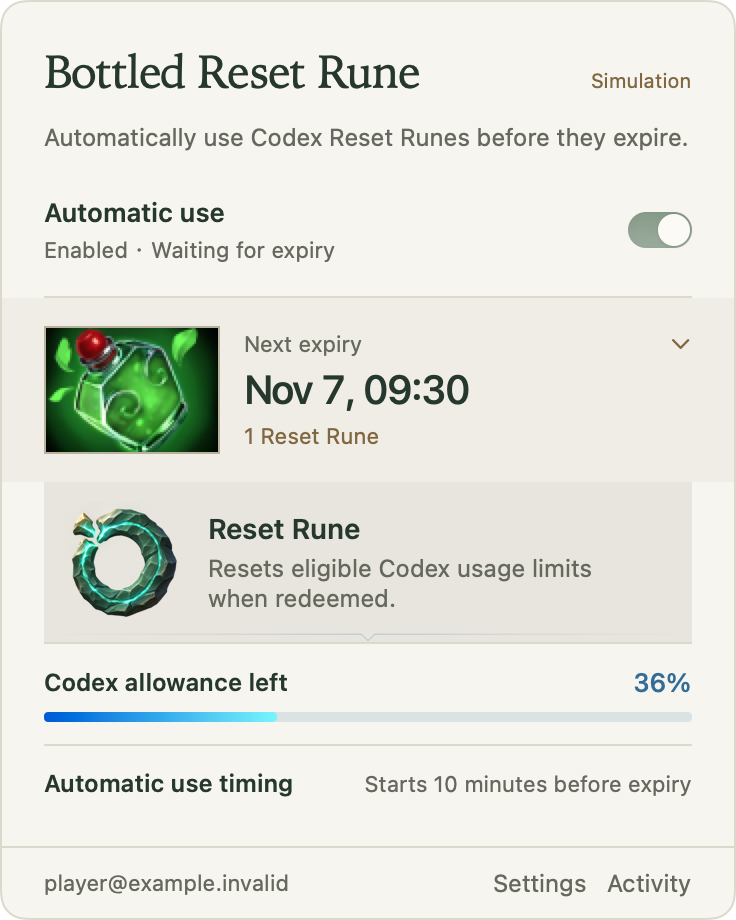
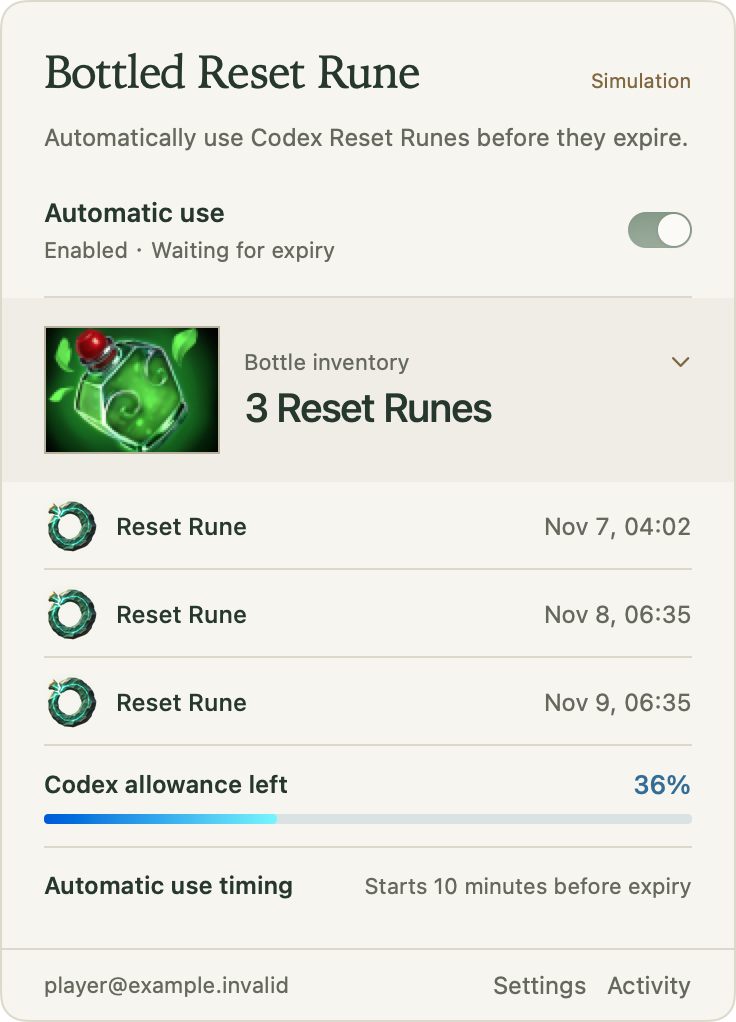
Present Reset Runes in compact inventory rows

diff --git a/native/Sources/RuneMenu/PanelView.swift b/native/Sources/RuneMenu/PanelView.swift
@@ -120,17 +120,18 @@ struct PanelView: View {
     }
 
     private var summary: some View {
-        Button { model.togglePanel("credits") } label: {
+        let showingInventory = model.panel == "credits" && model.bottle == .stored
+        return Button { model.togglePanel("credits") } label: {
             HStack(spacing: 12) {
                 bottleArtwork
                 VStack(alignment: .leading, spacing: 4) {
                     HStack {
-                        Text(model.expiryHeading).font(.system(size: 11)).foregroundStyle(model.isExpiring ? palette.caution : palette.muted)
+                        Text(showingInventory ? model.text("inventory") : model.expiryHeading).font(.system(size: 11)).foregroundStyle(model.isExpiring ? palette.caution : palette.muted)
                         Spacer(minLength: 4)
                         Image(systemName: model.panel == "credits" ? "chevron.down" : "chevron.right").font(.system(size: 10, weight: .medium)).foregroundStyle(palette.brass)
                     }
-                    Text(model.expiryLabel).font(.system(size: 20, weight: .medium)).tracking(-0.4).monospacedDigit().fixedSize(horizontal: false, vertical: true)
-                    if !model.countLabel.isEmpty { Text(model.countLabel).font(.system(size: 11)).foregroundStyle(palette.brass) }
+                    Text(showingInventory ? model.countLabel : model.expiryLabel).font(.system(size: 20, weight: .medium)).tracking(-0.4).monospacedDigit().fixedSize(horizontal: false, vertical: true)
+                    if model.panel != "credits", !model.countLabel.isEmpty { Text(model.countLabel).font(.system(size: 11)).foregroundStyle(palette.brass) }
                 }.frame(maxWidth: .infinity, alignment: .leading)
             }
             .padding(.horizontal, 22).padding(.vertical, 14)
@@ -139,7 +140,7 @@ struct PanelView: View {
         }
         .buttonStyle(.plain)
         .accessibilityLabel(model.text("rune"))
-        .accessibilityValue([model.expiryLabel, model.countLabel].filter { !$0.isEmpty }.joined(separator: ", "))
+        .accessibilityValue(showingInventory ? model.countLabel : [model.expiryLabel, model.countLabel].filter { !$0.isEmpty }.joined(separator: ", "))
         .accessibilityHint(model.text(model.panel == "credits" ? "hideRunes" : "showRunes"))
     }
 
@@ -163,24 +164,17 @@ struct PanelView: View {
 
     private var creditDetails: some View {
         VStack(alignment: .leading, spacing: 0) {
-            runeDescription
-            let others = model.bottle == .stored ? (model.state?.otherExpiryLines(now: model.visibleNow, language: model.language) ?? []) : []
-            if !others.isEmpty {
+            let rows = model.bottle == .stored ? (model.state?.inventoryRows(now: model.now) ?? []) : []
+            if !rows.isEmpty {
                 ScrollView {
                     VStack(spacing: 0) {
-                        ForEach(Array(others.enumerated()), id: \.offset) { index, line in
-                            if index > 0 { separator }
-                            Text(line)
-                                .font(.system(size: 12)).frame(maxWidth: .infinity, alignment: .leading).padding(.vertical, 9)
+                        ForEach(rows) { row in
+                            runeRow(row)
                         }
                     }
-                }.frame(height: min(CGFloat(others.count) * 36, 150))
+                }
+                .frame(height: min(CGFloat(rows.count) * 44, 176))
             }
-            if model.incompleteInventory && model.next != nil {
-                Text(model.text("partial"))
-                    .font(.system(size: 11)).foregroundStyle(palette.muted).padding(.bottom, 9)
-            }
-            separator
             VStack(spacing: 7) {
                 HStack {
                     Text(model.text("allowance")).font(.system(size: 12, weight: .semibold))
@@ -215,33 +209,32 @@ struct PanelView: View {
         }.padding(.horizontal, 22).padding(.bottom, 13)
     }
 
-    private var runeDescription: some View {
-        HStack(spacing: 12) {
-            if let image = MenuArtwork.panel("reset-rune.png") {
-                Image(nsImage: image).resizable().interpolation(.high).scaledToFit()
-                    .frame(width: 60, height: 60).accessibilityHidden(true)
-            }
-            VStack(alignment: .leading, spacing: 4) {
-                Text(model.text("rune")).font(.system(size: 14, weight: .semibold))
-                Text(model.text("runeEffect")).font(.system(size: 12)).foregroundStyle(palette.muted)
-                    .fixedSize(horizontal: false, vertical: true)
-            }
-        }
-        .padding(10)
-        .frame(maxWidth: .infinity, alignment: .leading)
-        .background {
-            palette.well.overlay {
-                if let texture = MenuArtwork.panel("dota-texture.jpg") {
-                    Image(nsImage: texture).resizable().scaledToFill()
-                        .opacity(colorScheme == .dark ? 0.62 : 0.04)
+    private func runeRow(_ row: PanelRuneRow) -> some View {
+        HStack(spacing: 8) {
+            Group {
+                if let image = MenuArtwork.panel("reset-rune.png") {
+                    Image(nsImage: image).resizable().interpolation(.high).scaledToFit()
+                } else {
+                    Image(systemName: "arrow.counterclockwise").foregroundStyle(palette.accent)
                 }
-            }.clipped().accessibilityHidden(true)
-        }
-        .overlay(alignment: .bottom) {
-            if let divider = MenuArtwork.panel("dota-divider.png") {
-                Image(nsImage: divider).resizable().scaledToFit().accessibilityHidden(true)
             }
+            .frame(width: 28, height: 28)
+            .accessibilityHidden(true)
+            Text(row.count > 1 ? "\(model.text("rune")) ×\(row.count)" : model.text("rune"))
+                .font(.system(size: 12, weight: .medium))
+                .lineLimit(1)
+            Spacer(minLength: 6)
+            Text(row.expiresAt.map { PanelCopy.date($0, language: model.language, now: model.visibleNow) } ?? model.text("unknownExpiry"))
+                .font(.system(size: 12))
+                .monospacedDigit()
+                .foregroundStyle(palette.muted)
+                .lineLimit(1)
+                .minimumScaleFactor(0.85)
+                .layoutPriority(1)
         }
+        .frame(height: 44)
+        .help(model.text("runeEffect"))
+        .overlay(alignment: .bottom) { separator }
         .accessibilityElement(children: .combine)
     }
 

diff --git a/native/Sources/RuneMenu/PanelState.swift b/native/Sources/RuneMenu/PanelState.swift
@@ -23,6 +23,12 @@ struct PanelCredit: Decodable, Equatable, Identifiable {
     var expiresAt: Double?
 }
 
+struct PanelRuneRow: Equatable, Identifiable {
+    let id: String
+    let expiresAt: Double?
+    let count: Int
+}
+
 struct PanelInventory: Decodable {
     var identity: PanelIdentity?
     var availableCount: Int?
@@ -80,22 +86,19 @@ struct PanelState: Decodable {
             .min { $0.expiresAt! < $1.expiresAt! }
     }
 
-    func otherExpiryLines(now: Date, language: String) -> [String] {
-        let future = (snapshot?.credits ?? []).compactMap(\.expiresAt)
-            .filter { validEpoch($0) && $0 > now.timeIntervalSince1970 * 1000 }
+    func inventoryRows(now: Double) -> [PanelRuneRow] {
+        let credits = snapshot?.credits ?? []
+        let future = credits.compactMap(\.expiresAt)
+            .filter { validEpoch($0) && $0 > now }
         let byMinute = Dictionary(grouping: future) { Int64($0 / 60_000) }
-        let minutes = byMinute.keys.sorted()
-        return minutes.compactMap { minute in
-            guard let expiries = byMinute[minute], let expiry = expiries.first else { return nil }
-            if minute == minutes.first {
-                let extra = expiries.count - 1
-                guard extra > 0 else { return nil }
-                return language == "zh" ? "另有 \(extra) 枚在同一分钟到期" : "\(extra) more due that minute"
-            }
-            let date = PanelCopy.date(expiry, language: language, now: now)
-            if expiries.count == 1 { return language == "zh" ? "\(date) 到期" : "Expires \(date)" }
-            return language == "zh" ? "\(date) 到期 · \(expiries.count) 枚" : "\(expiries.count) expire \(date)"
+        var rows = byMinute.sorted { $0.key < $1.key }.map { group in
+            PanelRuneRow(id: "minute-\(group.key)", expiresAt: group.value.min(), count: group.value.count)
         }
+        let unknownCount = max(0, (snapshot?.availableCount ?? 0) - future.count)
+        if unknownCount > 0 {
+            rows.append(PanelRuneRow(id: "unknown", expiresAt: nil, count: unknownCount))
+        }
+        return rows
     }
 
     func recentEvents() -> [PanelEventRow] {
@@ -127,6 +130,7 @@ enum PanelCopy {
             "knownNext": ("Next known expiry", "最近已知到期"),
             "fading": ("Expiring soon", "即将到期"),
             "rune": ("Reset Rune", "重置神符"),
+            "inventory": ("Bottle inventory", "魔瓶库存"),
             "runeEffect": ("Resets eligible Codex usage limits when redeemed.", "兑换后可重置符合条件的 Codex 额度。"),
             "showRunes": ("Show Reset Rune details", "展开重置神符明细"),
             "hideRunes": ("Hide Reset Rune details", "收起重置神符明细"),

diff --git a/native/Tests/RuneMenuTests/PanelStateTests.swift b/native/Tests/RuneMenuTests/PanelStateTests.swift
@@ -17,6 +17,8 @@ final class PanelStateTests: XCTestCase {
         XCTAssertEqual(result.bottle(), .stored)
         XCTAssertEqual(result.snapshot?.availableCount, 3)
         XCTAssertEqual(result.snapshot?.credits?.count, 1)
+        XCTAssertEqual(result.inventoryRows(now: 1000).map(\.count), [1, 2])
+        XCTAssertNil(result.inventoryRows(now: 1000).last?.expiresAt)
     }
 
     func testEmptyAndUnknownRemainDifferent() throws {
@@ -35,26 +37,27 @@ final class PanelStateTests: XCTestCase {
         XCTAssertEqual(result.bottle(now: 21000), .stored)
     }
 
-    func testDetailLinesDoNotRepeatTheSummaryMinuteOrExpiredAndUnknownRows() throws {
+    func testInventoryRowsIncludeEarliestAndGroupSameMinute() throws {
         let result = try state(count: 5, credits: [
             ["id": "later", "expiresAt": 125000], ["id": "also-later", "expiresAt": 127000],
             ["id": "first", "expiresAt": 20000], ["id": "same-minute", "expiresAt": 21000],
             ["id": "past", "expiresAt": 5000], ["id": "unknown", "expiresAt": NSNull()]
         ])
-        let now = Date(timeIntervalSince1970: 10)
         XCTAssertEqual(result.nextCredit(now: 10000)?.id, "first")
-        let laterZH = PanelCopy.date(125000, language: "zh", now: now)
-        let laterEN = PanelCopy.date(125000, language: "en", now: now)
-        XCTAssertEqual(result.otherExpiryLines(now: now, language: "zh"), ["另有 1 枚在同一分钟到期", "\(laterZH) 到期 · 2 枚"])
-        XCTAssertEqual(result.otherExpiryLines(now: now, language: "en"), ["1 more due that minute", "2 expire \(laterEN)"])
+        let rows = result.inventoryRows(now: 10000)
+        XCTAssertEqual(rows.map(\.expiresAt), [20000, 125000, nil])
+        XCTAssertEqual(rows.map(\.count), [2, 2, 1])
+        XCTAssertEqual(Set(rows.map(\.id)).count, rows.count)
         let single = try state(count: 1, credits: [["id": "first", "expiresAt": 20000]])
-        XCTAssertTrue(single.otherExpiryLines(now: now, language: "zh").isEmpty)
+        XCTAssertEqual(single.inventoryRows(now: 10000), [PanelRuneRow(id: "minute-0", expiresAt: 20000, count: 1)])
+        XCTAssertEqual(single.inventoryRows(now: 20000), [PanelRuneRow(id: "unknown", expiresAt: nil, count: 1)])
     }
 
     func testExpiredOrInvalidDatesNeverBecomeNext() throws {
         let result = try state(credits: [["id": "expired", "expiresAt": 500], ["id": "missing", "expiresAt": NSNull()], ["id": "future", "expiresAt": 20000]])
         XCTAssertEqual(result.nextCredit(now: 1000)?.id, "future")
         XCTAssertNil(result.nextCredit(now: 20000))
+        XCTAssertEqual(result.inventoryRows(now: 1000).map(\.expiresAt), [20000, nil])
         XCTAssertFalse(validEpoch(.infinity))
         XCTAssertFalse(validEpoch(-1))
     }

diff --git a/native/Sources/CodexTransport/CodexSource.swift b/native/Sources/CodexTransport/CodexSource.swift
@@ -216,7 +216,7 @@ private final class AppServerSession: @unchecked Sendable {
                     }
                     do { try self.process.run() } catch { self.finish("read-failed"); return }
                     self.startDeadline()
-                    self.send(["id": 1, "method": "initialize", "params": ["clientInfo": ["name": "reset-rune", "title": "Bottled Reset Rune", "version": "0.1.1"], "capabilities": ["experimentalApi": true]]])
+                    self.send(["id": 1, "method": "initialize", "params": ["clientInfo": ["name": "reset-rune", "title": "Bottled Reset Rune", "version": "0.1.2"], "capabilities": ["experimentalApi": true]]])
                 }
             }
         }, onCancel: { self.cancel() })

diff --git a/native/Tests/RuneServiceTests/ServiceTests.swift b/native/Tests/RuneServiceTests/ServiceTests.swift
@@ -76,6 +76,6 @@ final class ServiceTests:XCTestCase {
         XCTAssertEqual(Paths.directory(mock:false,env:[:]).path,FileManager.default.homeDirectoryForCurrentUser.appendingPathComponent("Library/Application Support/Bottled Reset Rune").path)
         XCTAssertEqual(Paths.label(mock:false),"local.reset-rune.service")
         XCTAssertEqual(Paths.label(mock:true),"local.reset-rune.service.mock")
-        XCTAssertEqual(NativeRuntime.version,"0.1.1")
+        XCTAssertEqual(NativeRuntime.version,"0.1.2")
     }
 }

diff --git a/native/Sources/RuneService/Runtime.swift b/native/Sources/RuneService/Runtime.swift
@@ -16,7 +16,7 @@ public final class LifecycleLease {
 }
 
 public enum NativeRuntime {
-    public static let version = "0.1.1"
+    public static let version = "0.1.2"
     public static func executable() -> URL { URL(fileURLWithPath:CommandLine.arguments[0]).standardizedFileURL.resolvingSymlinksInPath() }
     public static func run(_ path: String, _ args: [String], timeout: TimeInterval = 10) throws -> Data {
         let p=Process(); p.executableURL=URL(fileURLWithPath:path); p.arguments=args

diff --git a/test/reference/codex/index.js b/test/reference/codex/index.js
@@ -300,7 +300,7 @@ function runAppServer(executable, env, timeoutMs, { operation, now = Date.now } 
     });
 
     send({ id: 1, method: 'initialize', params: {
-      clientInfo: { name: 'reset-rune', title: 'Bottled Reset Rune', version: '0.1.1' },
+      clientInfo: { name: 'reset-rune', title: 'Bottled Reset Rune', version: '0.1.2' },
       capabilities: { experimentalApi: true },
     } });
   });

diff --git a/design/theme.md b/design/theme.md
@@ -2,7 +2,7 @@
 
 ## 核心意象
 
-主面板显示 Dota 2 原版瓶装恢复符或空瓶，待确认状态另有标记。展开库存明细后显示本项目设计的「重置神符」（Reset Rune）。物品说明使用 Dota 2 官网纹理和分隔饰带。库存和自动使用授权分别由魔瓶和开关表示。
+主面板显示 Dota 2 原版瓶装恢复符或空瓶，待确认状态另有标记。展开库存明细后显示本项目设计的「重置神符」（Reset Rune）。展开列表采用 28pt 小图标、名称和右对齐日期的单行布局，每行 44pt。库存和自动使用授权分别由魔瓶和开关表示。
 
 对外宣传主句为「把codex的重置变成神符装进魔瓶」／“Turn your Codex resets into bottled runes.”，后接实际用途说明。界面操作与结果继续使用普通功能语言，不把宣传主句用于替代到期信息、授权或兑换状态。战报中成功兑换使用 TI10 的绿色勾标。
 
@@ -24,8 +24,8 @@
 
 - 固定 368px 紧凑面板，水平内边距 22px，单层细边框和圆角。
 - 品牌字标使用克制的旧式衬线，正文和控件采用 macOS 系统字体。
-- 魔瓶物品图按原始比例适配物品框。重置神符的图与说明放在明细区，合拢后释放展开视图。
-- 到期信息集中在摘要；展开区域避免重复同一个时间。
+- 魔瓶物品图按原始比例适配物品框。重置神符图缩为 28pt，和名称、到期日期同一行，行高 44pt。用途说明通过悬停帮助保留，合拢后释放展开视图。
+- 收起时摘要显示最近到期时间；展开时摘要显示库存数量，所有已知到期时间进入列表，同一分钟合并为一行并在名称旁标数量。缺少日期的库存集中显示为「到期时间未知」。
 - 额度、尝试时机和战报按需展开，同一时间只展开一项。
 - 采用清晰的焦点、文字结果和辅助功能说明，不依赖颜色表达状态。
 - 界面只响应数据与用户操作变化，不使用常驻粒子、闪烁或逐秒刷新。

diff --git a/assets/panel/README.md b/assets/panel/README.md
@@ -2,4 +2,4 @@
 
 The inventory row uses the Valve item artwork in `bottle.png` and `bottle-empty.png`. Both are opaque 88 × 64 inventory illustrations. Show the unconfirmed state with the empty plate and a visible status mark.
 
-The expanded inventory contains the custom `reset-rune.png` illustration. `dota-texture.jpg` and `dota-divider.png` provide compact exports of Valve’s website texture and divider. The battle log uses the TI10 checkmark in `dota-success.png` for a successful redemption. Source URLs, attribution and image transformations are recorded in [Artwork and sources](../ARTWORK.md). See the [icon guide](../icons/README.md) for Finder and menu bar representations.
+Expanded inventory rows display the custom `reset-rune.png` illustration at 28 pt beside the item name and expiry. `dota-texture.jpg` and `dota-divider.png` preserve compact exports of Valve’s website texture and divider. The battle log uses the TI10 checkmark in `dota-success.png` for a successful redemption. Source URLs, attribution and image transformations are recorded in [Artwork and sources](../ARTWORK.md). See the [icon guide](../icons/README.md) for Finder and menu bar representations.

diff --git a/design/README.md b/design/README.md
@@ -27,7 +27,7 @@ GitHub、项目首页与宣传页使用以下主句：
 
 菜单栏使用同源的彩色小图标区分有符、空瓶和待确认，辅助功能标签说明当前状态。Finder 使用固定应用图标。
 
-点击摘要展开重置神符明细。首行以独立的正方形物品图展示重置神符，并说明「兑换后可重置符合条件的 Codex 额度」。蓝量条表示主额度窗口的剩余比例，尝试时机只用一行说明。战报按最新时间排列最近操作；结果不同必须有可读文字，不能仅依赖颜色或游戏图形。
+点击摘要展开重置神符明细。每行依次显示 28pt 的重置神符小图、名称和右对齐的到期日期，行高 44pt。同一分钟到期的神符合并一行，在名称旁标数量；缺少日期的库存显示一行「到期时间未知」。展开时摘要改为库存数量，收起后恢复最近到期时间。神符用途在悬停帮助中显示。蓝量条表示主额度窗口的剩余比例，尝试时机只用一行说明。战报按最新时间排列最近操作；结果不同必须有可读文字，不能仅依赖颜色或游戏图形。
 
 ## 设置
 
